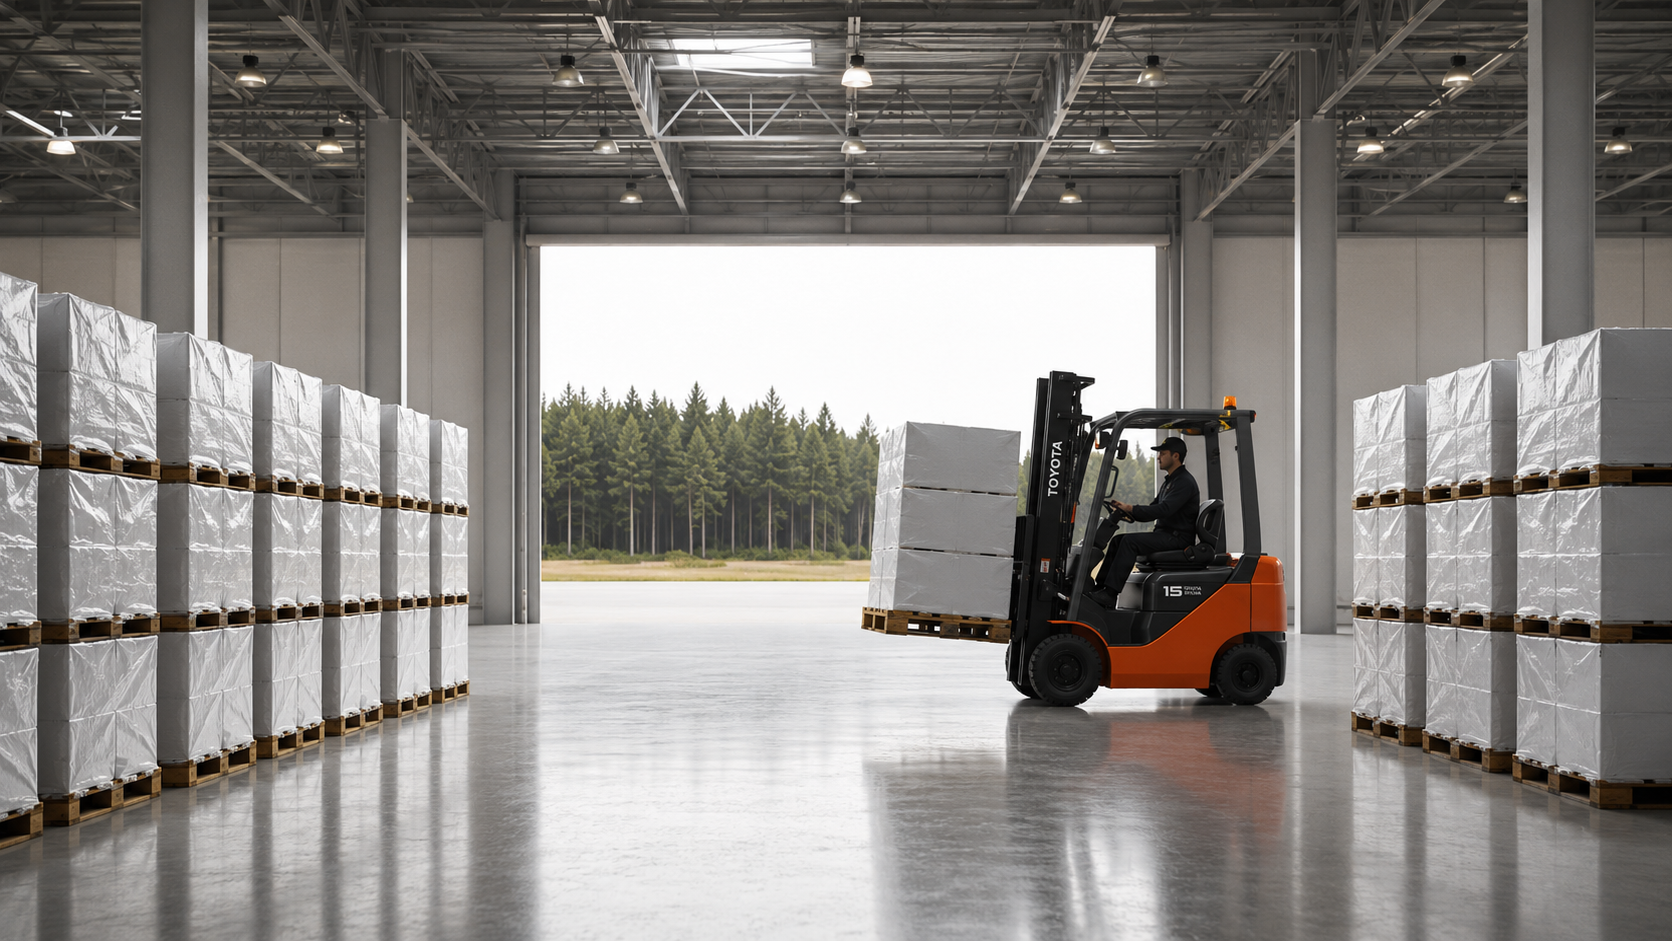
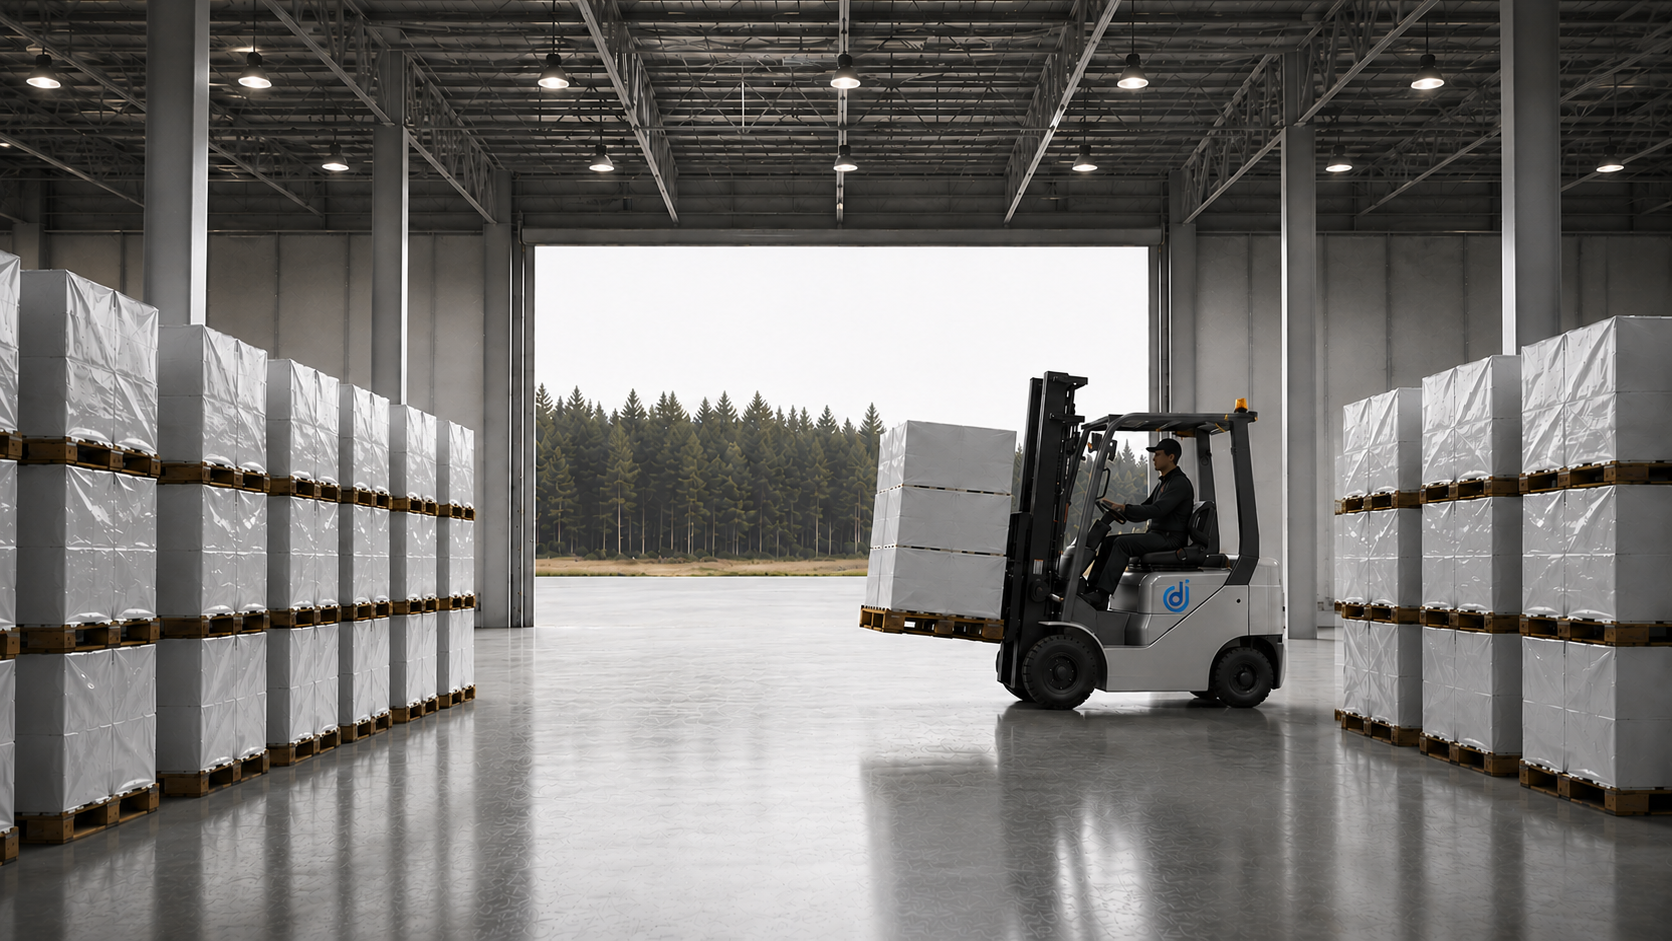
feat: formulário envia direto para WhatsApp com todos os dados
- Remoção do checkbox "Desejo ser contatado via WhatsApp"
- Envio sempre abre WhatsApp com mensagem estruturada (nome, email, telefone, empresa, ramo, assunto, mensagem)
- Botão atualizado para "Enviar pelo WhatsApp" com ícone
- Nova imagem de fundo hero (empilhadeira com logo DJ Rent)

diff --git a/src/routes/index.tsx b/src/routes/index.tsx
@@ -319,16 +319,23 @@ function FinalCTA() {
 }
 
 function Contact() {
-  const [form, setForm] = useState({ nome: "", email: "", telefone: "", empresa: "", ramo: "", assunto: "Aluguel", mensagem: "", whats: false });
+  const [form, setForm] = useState({ nome: "", email: "", telefone: "", empresa: "", ramo: "", assunto: "Aluguel", mensagem: "" });
   const [sent, setSent] = useState(false);
 
   function submit(e: React.FormEvent) {
     e.preventDefault();
     if (!form.nome.trim() || !form.email.trim() || !form.telefone.trim()) return;
-    if (form.whats) {
-      const msg = `Olá DJ Rent! Sou ${form.nome} (${form.empresa || "sem empresa"}). Assunto: ${form.assunto}. ${form.mensagem}`;
-      window.open(whatsappUrl(msg), "_blank");
-    }
+    const parts = [
+      `Olá DJ Rent! Gostaria de entrar em contato.`,
+      `Nome: ${form.nome}`,
+      `Email: ${form.email}`,
+      `Telefone: ${form.telefone}`,
+      form.empresa ? `Empresa: ${form.empresa}` : null,
+      form.ramo ? `Ramo de atuação: ${form.ramo}` : null,
+      `Assunto: ${form.assunto}`,
+      form.mensagem ? `Mensagem: ${form.mensagem}` : null,
+    ].filter(Boolean).join("\n");
+    window.open(whatsappUrl(parts), "_blank");
     setSent(true);
   }
 
@@ -378,15 +385,11 @@ function Contact() {
                   className="mt-1 w-full rounded-lg border border-border bg-background px-4 py-3 text-sm focus:border-[var(--brand-blue)] focus:outline-none"
                 />
               </div>
-              <label className="flex items-center gap-2 text-sm text-[var(--brand-graphite)]">
-                <input type="checkbox" checked={form.whats} onChange={(e) => setForm({ ...form, whats: e.target.checked })} className="h-4 w-4 accent-[var(--brand-blue)]" />
-                Desejo ser contatado via WhatsApp
-              </label>
               <button
                 type="submit"
-                className="w-full rounded-full bg-[var(--brand-blue)] px-6 py-3.5 text-sm font-bold uppercase tracking-wider text-white shadow-[var(--shadow-cta)] transition-colors hover:bg-[var(--brand-blue-dark)]"
+                className="w-full inline-flex items-center justify-center gap-2 rounded-full bg-[var(--brand-blue)] px-6 py-3.5 text-sm font-bold uppercase tracking-wider text-white shadow-[var(--shadow-cta)] transition-colors hover:bg-[var(--brand-blue-dark)]"
               >
-                Enviar
+                <MessageCircle className="h-4 w-4" /> Enviar pelo WhatsApp
               </button>
             </form>
           )}
